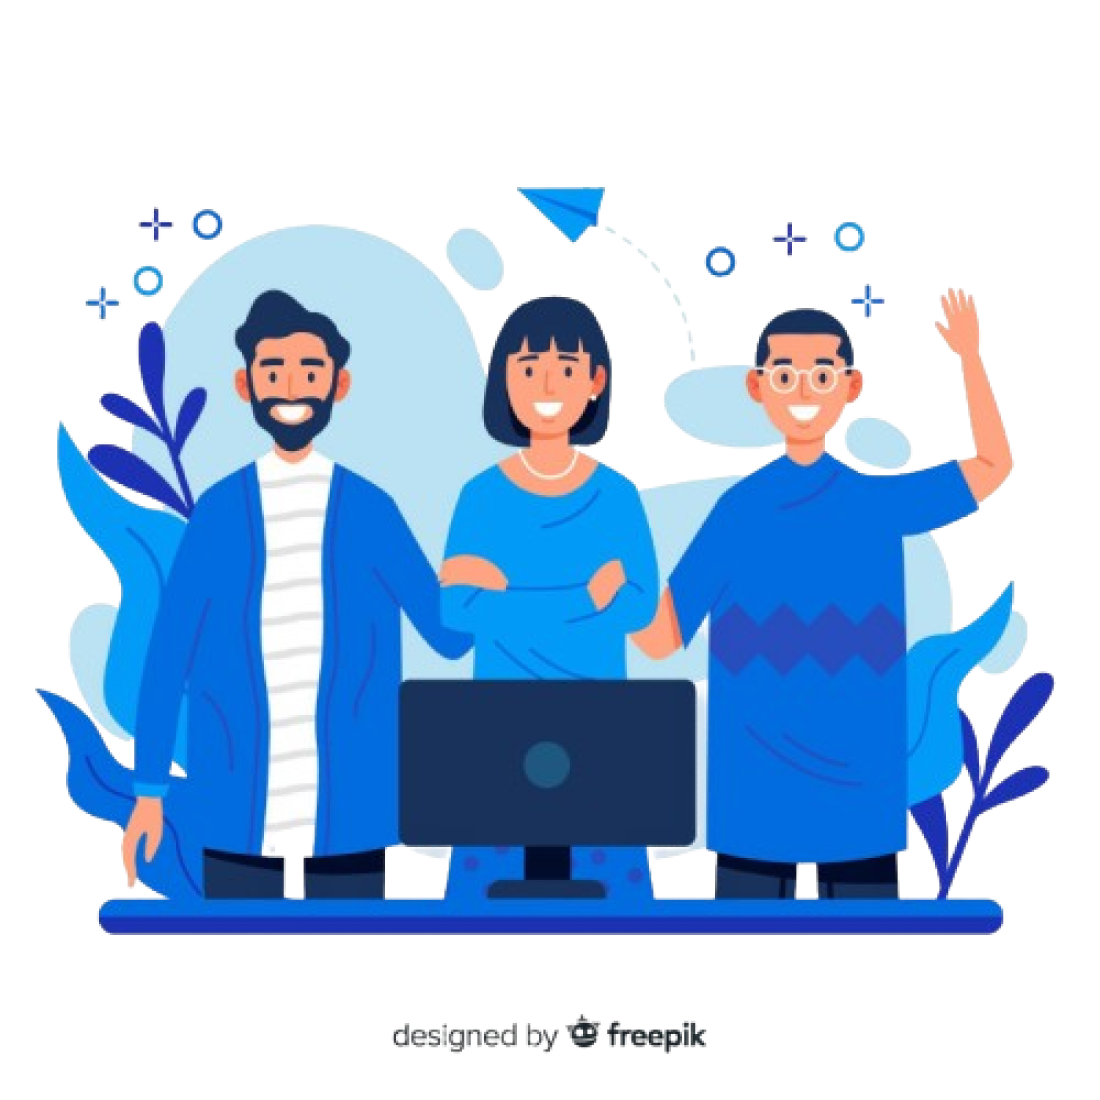
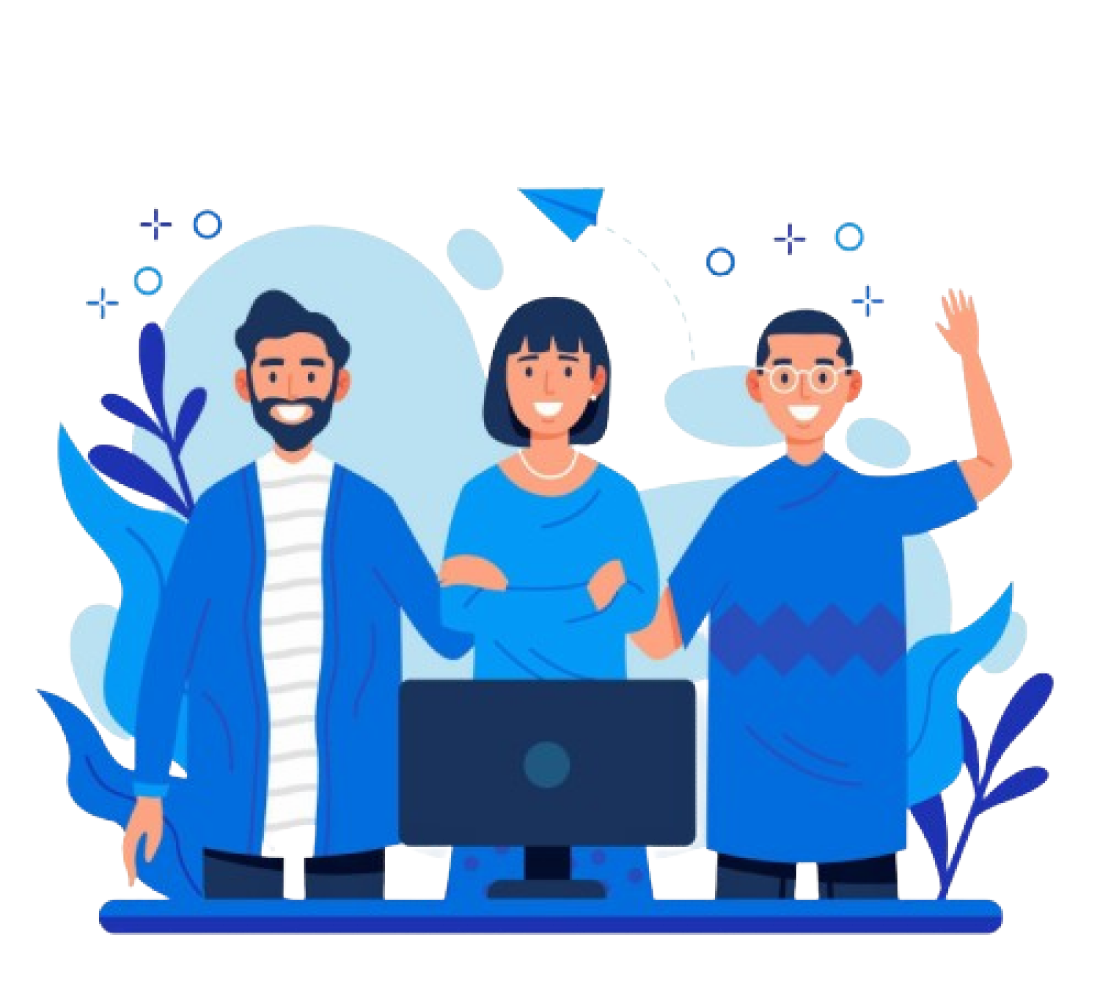
finsh home page

diff --git a/src/pages/HomePage/AboutSection .jsx b/src/pages/HomePage/AboutSection .jsx
@@ -1,0 +1,119 @@
+import { useState } from "react";
+import { IoIosArrowDown } from "react-icons/io";
+import { IoIosArrowBack } from "react-icons/io";
+
+const AboutSection = () => {
+    const [openSection, setOpenSection] = useState("about");
+
+    const toggleSection = (section) => {
+        setOpenSection(openSection === section ? null : section);
+    };
+
+    return (
+        <section className="flex flex-col md:flex-row items-center justify-between p-6 md:p-12 bg-white rounded-lg shadow-lg">
+            <div className="w-full md:w-1/2 space-y-6">
+                {/*  about */}
+                <div
+                    className={`p-6 md:py-12 rounded-lg shadow-md transition-all duration-300 ${openSection === "about"
+                        ? "border-2 border-blue-500 bg-gradient-to-r from-blue-100 to-white"
+                        : "bg-white"
+                        }`}
+                >
+                    <div
+                        className="flex justify-between items-center cursor-pointer"
+                        onClick={() => toggleSection("about")}
+                    >
+                        <h2 className="text-2xl text-[#101828]">من نحن</h2>
+                        <div className="w-8 h-8 flex items-center justify-center rounded-full bg-gradient-to-l from-[#48BB78] to-[#1A71FF] text-white">
+                            {openSection === "about" ? (
+                                <IoIosArrowBack className="w-6 h-6 text-white" />
+                            ) : (
+                                <IoIosArrowDown className="w-6 h-6 text-white" />
+                            )}
+                        </div>
+                    </div>
+                    {openSection === "about" && (
+                        <div className="mt-4 text-gray-700">
+                            <p>
+                                نحن منصة مبتكرة تقدم حلولًا متكاملة لإدارة وحجز الشاليهات بمرونة
+                                واحترافية. سواء كنت مالكًا تبحث عن تسويق شاليهك بفعالية أو
+                                مستأجرًا ترغب في العثور على الخيار المثالي، فإننا نوفر لك تجربة
+                                سلسة تعتمد على أحدث التقنيات لضمان راحتك ورفاهيتك.
+                            </p>
+                        </div>
+                    )}
+                </div>
+
+                {/* goal*/}
+                <div
+                    className={`p-6 md:py-12 rounded-lg shadow-md transition-all duration-300 ${openSection === "goal"
+                        ? "border-2 border-blue-500 bg-gradient-to-r from-blue-100 to-white"
+                        : "bg-white"
+                        }`}
+                >
+                    <div
+                        className="flex justify-between items-center cursor-pointer"
+                        onClick={() => toggleSection("goal")}
+                    >
+                        <h2 className="text-2xl text-[#101828]">هدفنا</h2>
+                        <div className="w-8 h-8 flex items-center justify-center rounded-full bg-gradient-to-l from-[#48BB78] to-[#1A71FF] text-white">
+                            {openSection === "goal" ? (
+                                <IoIosArrowBack className="w-6 h-6 text-white" />
+                            ) : (
+                                <IoIosArrowDown className="w-6 h-6 text-white" />
+                            )}
+                        </div>
+                    </div>
+                    {openSection === "goal" && (
+                        <div className="mt-4 text-gray-700">
+                            <p>
+                                هدفنا هو تقديم أفضل الحلول التقنية المبتكرة لضمان راحة عملائنا.
+                            </p>
+                        </div>
+                    )}
+                </div>
+
+                {/* mission*/}
+                <div
+                    className={`p-6 md:py-12 rounded-lg shadow-md transition-all duration-300 ${openSection === "mission"
+                        ? "border-2 border-blue-500 bg-gradient-to-r from-blue-100 to-white"
+                        : "bg-white"
+                        }`}
+                >
+                    <div
+                        className="flex justify-between items-center cursor-pointer"
+                        onClick={() => toggleSection("mission")}
+                    >
+                        <h2 className="text-2xl text-[#101828]">رسالتنا</h2>
+                        <div className="w-8 h-8 flex items-center justify-center rounded-full bg-gradient-to-l from-[#48BB78] to-[#1A71FF] text-white">
+                            {openSection === "mission" ? (
+                                <IoIosArrowBack className="w-6 h-6 text-white" />
+                            ) : (
+                                <IoIosArrowDown className="w-6 h-6 text-white" />
+                            )}
+                        </div>
+                    </div>
+                    {openSection === "mission" && (
+                        <div className="mt-4 text-gray-700">
+                            <p>
+                                رسالتنا هي تطوير تجربة المستخدم من خلال تقديم تقنيات حديثة
+                                ومبتكرة.
+                            </p>
+                        </div>
+                    )}
+                </div>
+            </div>
+
+            {/* الجزء الخاص بالصورة */}
+            <div className="w-full md:w-1/2 flex justify-center">
+                <img
+                    src="src/assets/images/whoIm.png"
+                    alt="Team Illustration"
+                    className="w-3/4 md:w-full"
+                />
+            </div>
+        </section>
+    );
+};
+
+export default AboutSection;

diff --git a/src/pages/HomePage/HomePage.jsx b/src/pages/HomePage/HomePage.jsx
@@ -1,95 +1,30 @@
+import AboutSection from "./AboutSection ";
 import ChaletSection from "./ChaletSection";
 import HeroSection from "./HeroSection";
+import OpinionSection from "./OpinionSection";
 import QuickStats from "./QuickStats";
+import ServiceSection from "./ServiceSection";
 
 export default function HomePage() {
   return (
     <>
-      {/* <HeroSection />
-      <QuickStats /> */}
+
 
       <div className="relative">
-        {/* Hero Section */}
         <HeroSection />
 
-        {/* QuickStats */}
         <div className="absolute left-0 right-0 mx-auto -mt-24">
           <QuickStats />
         </div>
 
-        {/* باقي الصفحة */}
         <div className="md:mt-32 mt-16">
         </div>
       </div>
 
-
-
-
       <ChaletSection />
-
-
-
-
-      <div className="pt-5 flex flex-col items-center justify-center">
-        <h1 className="font-bold text-5xl">المزايا والخدمات</h1>
-        <h3 className="pt-4"> كل ما تحتاجه في مكان واحد</h3>
-      </div>
-
-      <div className="flex flex-wrap gap-4 justify-center pt-5">
-        {/* Service 1 */}
-        <div className="w-[250px]">
-          <div className="relative h-[250px] overflow-hidden">
-            <img className="w-full h-full object-cover" src="https://images.unsplash.com/photo-1596345442867-27f38b97433e?ixlib=rb-1.2.1&ixid=eyJhcHBfaWQiOjEyMDd9&auto=format&fit=crop&w=1500&q=80" alt="Image" />
-            <div className="absolute top-0 left-0 w-full h-full bg-gradient-to-r from-[#0061E0] to-[#0D263B]" />
-          </div>
-          <div className="flex flex-col items-center mt-4">
-            {/* Icon (Font Awesome or any icon library) */}
-            <i className="fas fa-cogs text-4xl text-white"></i>
-            <p className="mt-2 text-center text-white">خدمة 1</p>
-          </div>
-        </div>
-
-        {/* Service 2 */}
-        <div className="w-[250px]">
-          <div className="relative h-[250px] overflow-hidden">
-            <img className="w-full h-full object-cover" src="https://images.unsplash.com/photo-1596345442867-27f38b97433e?ixlib=rb-1.2.1&ixid=eyJhcHBfaWQiOjEyMDd9&auto=format&fit=crop&w=1500&q=80" alt="Image" />
-            <div className="absolute top-0 left-0 w-full h-full bg-gradient-to-r from-[#00A6ED] to-[#1182CE]" />
-          </div>
-          <div className="flex flex-col items-center mt-4">
-            {/* Icon (Font Awesome or any icon library) */}
-            <i className="fas fa-home text-4xl text-white"></i>
-            <p className="mt-2 text-center text-white">خدمة 2</p>
-          </div>
-        </div>
-
-        {/* Service 3 */}
-        <div className="w-[250px]">
-          <div className="relative h-[250px] overflow-hidden">
-            <img className="w-full h-full object-cover" src="https://images.unsplash.com/photo-1596345442867-27f38b97433e?ixlib=rb-1.2.1&ixid=eyJhcHBfaWQiOjEyMDd9&auto=format&fit=crop&w=1500&q=80" alt="Image" />
-            <div className="absolute top-0 left-0 w-full h-full bg-gradient-to-r from-[#00C8F9] to-[#1976D2]" />
-          </div>
-          <div className="flex flex-col items-center mt-4">
-            {/* Icon (Font Awesome or any icon library) */}
-            <i className="fas fa-leaf text-4xl text-white"></i>
-            <p className="mt-2 text-center text-white">خدمة 3</p>
-          </div>
-        </div>
-
-        {/* Service 4 */}
-        <div className="w-[250px]">
-          <div className="relative h-[250px] overflow-hidden">
-            <img className="w-full h-full object-cover" src="https://images.unsplash.com/photo-1596345442867-27f38b97433e?ixlib=rb-1.2.1&ixid=eyJhcHBfaWQiOjEyMDd9&auto=format&fit=crop&w=1500&q=80" alt="Image" />
-            <div className="absolute top-0 left-0 w-full h-full bg-gradient-to-r from-[#00E676] to-[#00C853]" />
-          </div>
-          <div className="flex flex-col items-center mt-4">
-            {/* Icon (Font Awesome or any icon library) */}
-            <i className="fas fa-cogs text-4xl text-white"></i>
-            <p className="mt-2 text-center text-white">خدمة 4</p>
-          </div>
-        </div>
-      </div>
-
-
+      <ServiceSection />
+      <AboutSection />
+      <OpinionSection/>
     </>
   );
 }

diff --git a/src/pages/HomePage/OpinionSection.jsx b/src/pages/HomePage/OpinionSection.jsx
@@ -1,0 +1,65 @@
+export default function OpinionSection() {
+    const opinion = [
+        {
+            id: 1,
+            name: 'Kira Wood',
+            text: 'كانت تجربتي مع المنصة رائعة! كل شيء كان بسيطًا وسهل الاستخدام، وأنا الآن أستطيع إدارة شاليهتي بكل سهولة.',
+            image: 'src/assets/images/Ellipse 55.png',
+        },
+        {
+            id: 2,
+            name: 'Kira Wood',
+            text: 'كانت تجربتي مع المنصة رائعة! كل شيء كان بسيطًا وسهل الاستخدام، وأنا الآن أستطيع إدارة شاليهتي بكل سهولة.',
+            image: 'src/assets/images/Ellipse 55.png',
+        },
+        {
+            id: 3,
+            name: 'Kira Wood',
+            text: 'كانت تجربتي مع المنصة رائعة! كل شيء كان بسيطًا وسهل الاستخدام، وأنا الآن أستطيع إدارة شاليهتي بكل سهولة.',
+            image: 'src/assets/images/Ellipse 55.png',
+        },
+
+    ]
+    return (
+
+
+        <section className="bg-blue-50 my-12">
+            <div className="container mx-auto text-center pt-6">
+                <h2 className="text-5xl text-blue-600 mb-4">
+                    آراء شركاء النجاح
+                </h2>
+                <p className=" ">
+                    لا شيء يعبر عن جودة الخدمة أفضل من تجارب شركاء النجاح:
+                </p>
+            </div>
+            <div className="flex bg-blue-50 justify-center ">
+
+
+                {opinion.map(opinion => (
+                    <div key={opinion.id} className=" py-8 px-4 flex flex-col items-end">
+                        <div className=" bg-white text-center rounded-lg p-6 shadow-md w-96">
+                            <p className="text-gray-800 text-lg leading-relaxed mb-4">
+                                {opinion.text}
+                            </p>
+                        </div>
+
+                        <div className=" relative mt-6 flex items-center flex-col">
+                            <div className="absolute left-1/2 transform -translate-x-1/2 -top-9 w-6 h-6 bg-white rotate-45 "></div>
+                            <img
+                                src={opinion.image}
+                                alt="customer"
+                                className="w-16 h-16 rounded-full border-2 border-blue-200 shadow"
+                            />
+                            <h4 className="text-blue-800 font-bold mt-2">{opinion.name}</h4>
+                            <p className="text-gray-500 text-sm">Customer</p>
+                        </div>
+                    </div>
+                ))}
+
+
+
+
+            </div>
+        </section>
+    );
+}

diff --git a/src/pages/HomePage/ServiceSection.jsx b/src/pages/HomePage/ServiceSection.jsx
@@ -1,0 +1,45 @@
+
+export default function ServiceSection() {
+    const services = [
+        {
+            id: 1,
+            description: "تقويم الحجوزات الذكي: عرض شامل للمواعيد المتاحة.",
+            img: "src/assets/images/Featured icon.png"
+        },
+        {
+            id: 2,
+            description: "مراجعات العملاء: شاهد تقيمات العملاء لتحسين تجربتك.",
+            img: "src/assets/images/Featured icon (1).png"
+        },
+        {
+            id: 3,
+            description: "إدارة الحجوزات بسهولة: تحكم كامل في جميع التفاصيل.",
+            img: "src/assets/images/Featured icon (2).png"
+        },
+        {
+            id: 4,
+            description: "رفع صور الشاليهات: أضف صوراً عالية الجودة لشاليهاتك بكل سهولة",
+            img: "src/assets/images/Featured icon (3).png"
+        },
+
+
+    ]
+    return (
+        <div className="my-5">
+            <div className="flex flex-col items-center justify-center">
+                <h1 className="text-[#101828] text-5xl">المزايا والخدمات</h1>
+                <h3 className="text-[#4F5A69] text-2xl pt-4"> كل ما تحتاجه في مكان واحد!</h3>
+            </div>
+            <div className="flex flex-wrap gap-4 justify-center pt-5">
+                {services.map(service => (
+                    <div key={service.id} className="bg-blue-50 w-3/4 sm:w-1/2 md:w-1/3 lg:w-[20%] h-[250px] flex flex-col justify-center">
+                        <div className="">
+                            <img className="text-center mx-auto" src={service.img} alt="" />
+                            <p className="text-center mt-6 px-3 text-[#101828]">{service.description}</p>
+                        </div>
+                    </div>
+                ))}
+            </div >
+        </div>
+    )
+}

diff --git a/src/pages/HomePage/ChaletSlider.jsx b/src/pages/HomePage/ChaletSlider.jsx
@@ -58,7 +58,7 @@ const ChaletSlider = () => {
                 spaceBetween={20}
                 slidesPerView={1}
                 breakpoints={{
-                    425: {
+                    500: {
                         slidesPerView: 2,
                     },
                     768: {
@@ -83,10 +83,8 @@ const ChaletSlider = () => {
                                     <HiOutlineLocationMarker className='me-2' />
                                     <p className='text-[#101828]'>{chalet.city}</p>
                                 </div>
-                                {/* <p className="mt-2 text-sm">المدينة: {chalet.city}</p> */}
-                                {/* <p className="mt-2 text-sm">السعر: {chalet.price}</p> */}
                                 <div className='flex justify-between mx-1 mt-3 items-center'>
-                                    <button className='bg-gradient-to-l from-[#48BB78] to-[#1A71FF] text-white px-16 py-2 rounded-lg font-semibold  '>
+                                    <button className='bg-gradient-to-l from-[#48BB78] to-[#1A71FF] text-white px-6 lg:px-16 py-2 rounded-lg font-semibold  '>
                                         المزيد
                                     </button>
                                     <h1 className='text-[#0061E0] text-2xl font-bold'>{chalet.price}</h1>

diff --git a/src/pages/HomePage/QuickStats.jsx b/src/pages/HomePage/QuickStats.jsx
@@ -11,7 +11,7 @@ export default function QuickStats() {
         { icon: TbStars, value: "+2000", label: "حجز" },
     ];
     return (
-        <div className="mx-auto lg:w-[80%] w-[90%] bg-[#E9F3FF] py-4 rounded-3xl">
+        <div className="mx-auto lg:w-[80%] w-[90%] bg-blue-50 py-4 rounded-3xl">
             <div className="flex justify-evenly items-center flex-wrap md:flex-nowrap">
                 {statsData.map(({ icon: Icon, value, label }) => (
                     <div key={label} className="flex flex-col items-center w-[22%] md:w-auto">

diff --git a/src/components/Footer.jsx b/src/components/Footer.jsx
@@ -10,7 +10,7 @@ import { Link } from "react-router-dom";
 
 export default function Footer() {
   return (
-    <div className="bg-[#cfffe3]">
+    <div className="bg-blue-50 ">
       <div className="flex flex-col md:flex-row justify-around py-10">
 
         {/* الجزء الأول */}
